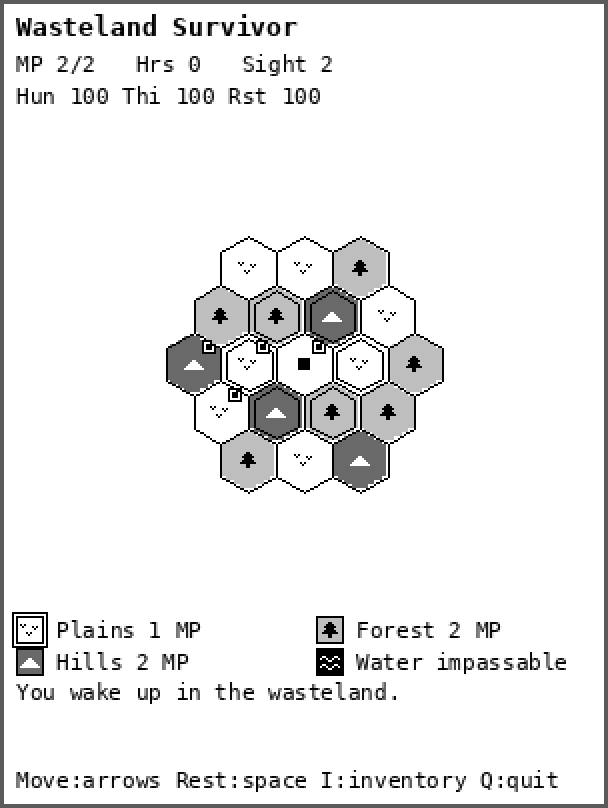
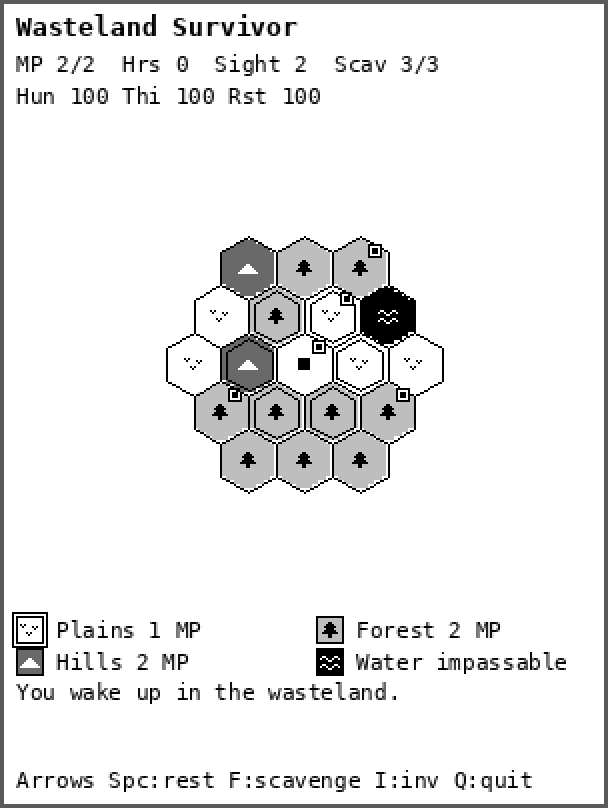
wasteland: add F to scavenge, with loot tables per terrain
F on the map searches the current tile for 1 MP and 1 hour (needs drain
as for walking), rolls twice on that terrain's weighted loot table and
drops finds on the ground here. Plains give roadside junk, food and
water; forest gives wild berries (new consumable) and cold-weather
gear; hills give rock, water and hiking gear. Each tile can be searched
3 times before it is picked clean; the HUD shows searches left.

New scavenge_test.lua covers the tables, costs, exhausted tiles, that
every entry can drop, and the key binding in the real main loop.

Claude-Session: https://claude.ai/code/session_01B2S3WcfsAgHLdif2Kpvj91

diff --git a/examples/wasteland/tests/make_lib.py b/examples/wasteland/tests/make_lib.py
@@ -9,6 +9,7 @@ Outputs (git-ignored, regenerated on every run):
   lib_only.lua       -> unit_test, sprite_test, bounds_test, body_test, render_scene
   lib_map.lua        -> glyph_test
   lib_layout.lua     -> bounds_test, regression_test (layout constants + INV_ROWS/INV_POS)
+  lib_scavenge.lua   -> scavenge_test
   wasteland_run.lua  -> full copy, run under the fake solaros by run_tests.sh / soak
 """
 import pathlib
@@ -36,5 +37,8 @@ lib = src[:cut]
           "INV_LOG_Y = INV_LOG_Y, INV_LOG_LINES = INV_LOG_LINES, "
           "BODY_CX = BODY_CX, BODY_TOP = BODY_TOP, BODY_BOTTOM = BODY_BOTTOM}, "
           "function() return INV_ROWS, INV_POS end\n")
+(here / "lib_scavenge.lua").write_text(
+    lib + "\nreturn Game, ITEM_DB, SCAVENGE_LOOT, SCAVENGE_TRIES, SCAVENGE_ROLLS, "
+          "SCAVENGE_HOURS, TERRAIN\n")
 (here / "wasteland_run.lua").write_text(src)
-print("generated lib_only.lua, lib_map.lua, lib_layout.lua, wasteland_run.lua")
+print("generated lib_*.lua, wasteland_run.lua")

diff --git a/examples/wasteland/tests/replay.py b/examples/wasteland/tests/replay.py
@@ -46,6 +46,6 @@ def replay(ops_path, out_path):
     framed.paste(img, (4, 4))
     framed.save(out_path)
 
-for name in ("inventory", "inventory_barefoot", "inventory_full", "inventory_dressed", "map", "map_explored", "map_full"):
+for name in ("inventory", "inventory_barefoot", "inventory_full", "inventory_dressed", "map", "map_explored", "map_scavenge", "map_full"):
     replay(f"ops_{name}.txt", f"preview_{name}.png")
 print("ok")

diff --git a/examples/wasteland/HANDOFF.md b/examples/wasteland/HANDOFF.md
@@ -12,7 +12,9 @@
 > - Layout tests (`bounds_test`, `body_test`) now read the game's constants through the generated `lib_layout.lua` (gap 25 fixed).
 > - Still unverified on the device: everything since "it works!".
 >
-> **Paperdoll rework (same day, user asked for "slots overlay the body part, like NEO Scavenger"):** the two slot columns are gone. Each slot is a dashed frame *on* its body part (`EQUIP_RECT`); worn clothes are painted onto the figure via `ITEM_DB[...].wear` (part, row range, color) using per-part body blocks (`PART_BLOCKS`), and the item icon sits on top with a white halo. Empty slots show their name on a white tag. The figure is 1.25× bigger (`BODY_SCALE`) with a larger head; to make room the ground grid is one scrolling row of 9 × 30px cells. The cursor's item is named on the "Ground" line. Left/right also step the cursor on this screen. `body_test` now checks every slot is on the body and no two slots touch. All 10 slots now have an item (earmuffs, sunglasses, scarf, leather jacket, bracers added; wear entries can clip to a distance band from the center line). Every wearable not worn at start (incl. cap/gloves) spawns once on a random passable tile, plus a few food/water caches; tiles with items get a small boxed-dot marker on the map and a log line when you step on them. There is still no Scavenge action: items are simply lying on the ground.
+> **Paperdoll rework (same day, user asked for "slots overlay the body part, like NEO Scavenger"):** the two slot columns are gone. Each slot is a dashed frame *on* its body part (`EQUIP_RECT`); worn clothes are painted onto the figure via `ITEM_DB[...].wear` (part, row range, color) using per-part body blocks (`PART_BLOCKS`), and the item icon sits on top with a white halo. Empty slots show their name on a white tag. The figure is 1.25× bigger (`BODY_SCALE`) with a larger head; to make room the ground grid is one scrolling row of 9 × 30px cells. The cursor's item is named on the "Ground" line. Left/right also step the cursor on this screen. `body_test` now checks every slot is on the body and no two slots touch. All 10 slots now have an item (earmuffs, sunglasses, scarf, leather jacket, bracers added; wear entries can clip to a distance band from the center line). Every wearable not worn at start (incl. cap/gloves) spawns once on a random passable tile, plus a few food/water caches; tiles with items get a small boxed-dot marker on the map and a log line when you step on them. Items placed at world generation are simply lying on the ground.
+>
+> **Scavenging:** `F` on the map searches the current tile: 1 MP + 1 h of needs drain (`SCAVENGE_HOURS`), `SCAVENGE_ROLLS` = 2 rolls on `SCAVENGE_LOOT[terrain]` (weighted, with "nothing" entries), finds dropped on the tile's ground. `SCAVENGE_TRIES` = 3 searches per tile, tracked in `Game.scavenged`, then "picked clean". HUD shows `Scav n/3`. New consumable `berries` (forest). RNG state lives in `Game.seed`. Covered by `tests/scavenge_test.lua` (tables valid, costs, dry tiles, every entry reachable, F wired); measured drop rates match the weights within ~1%.
 
 ---
 
